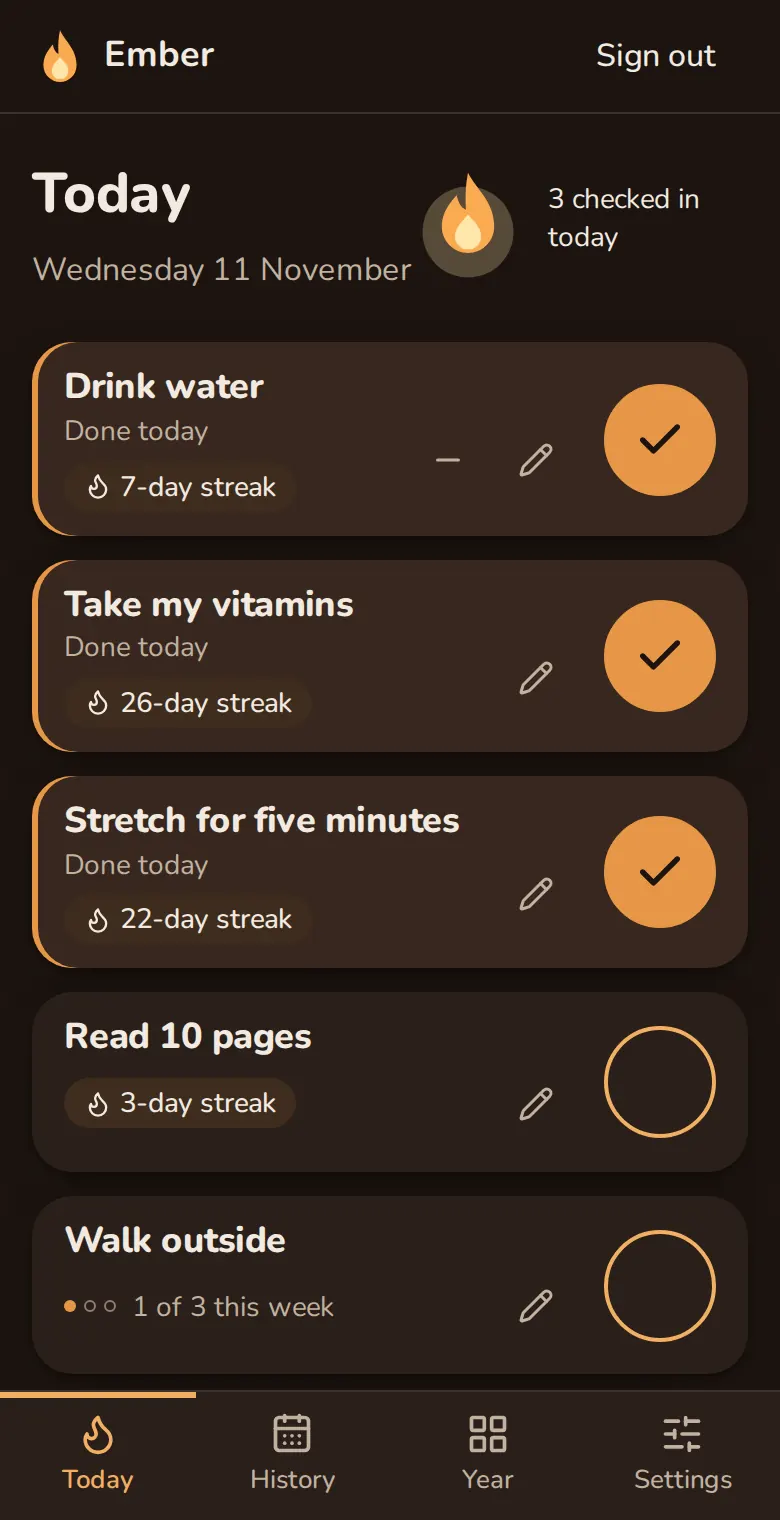
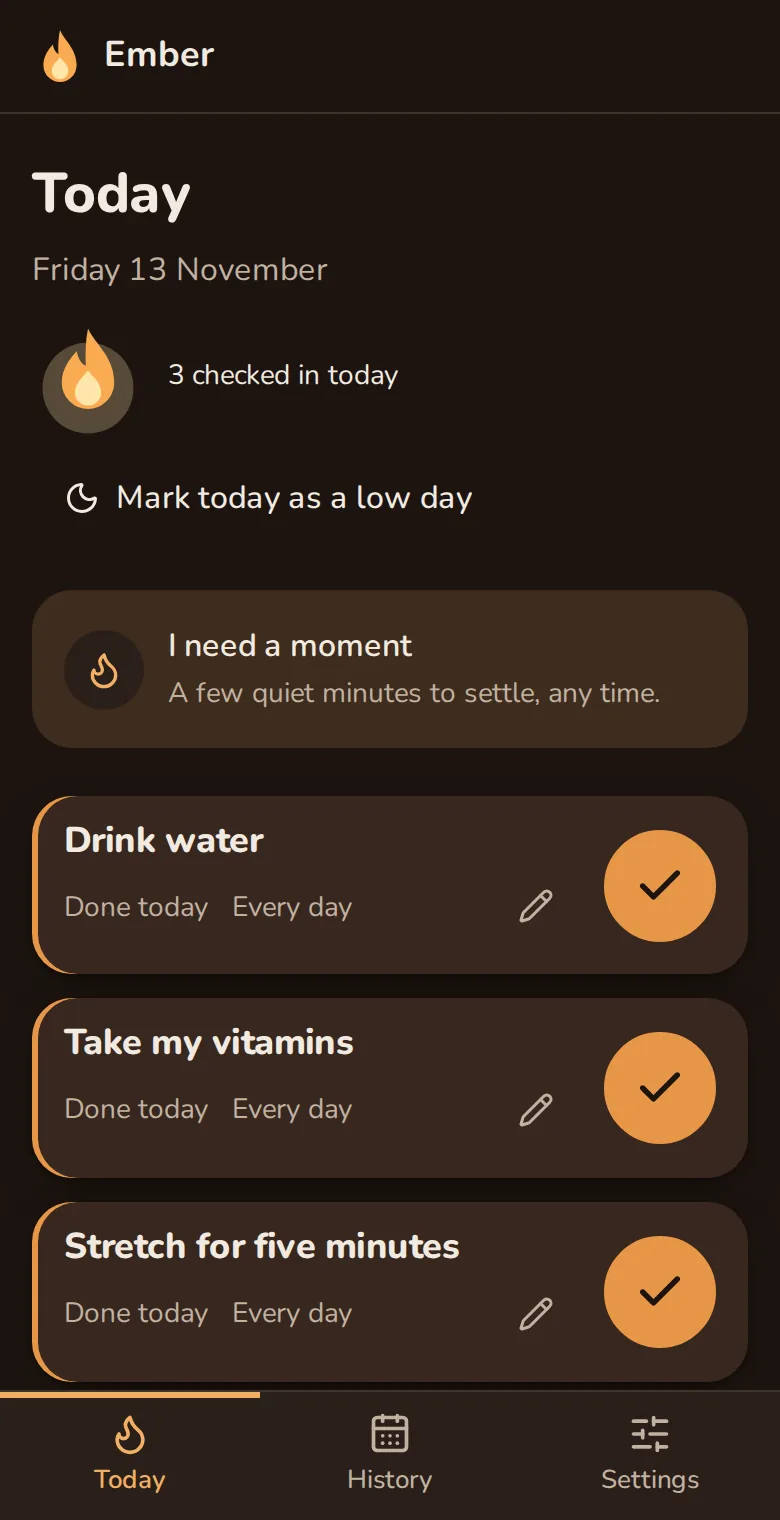
Companion follow-ups: cold-start Reflect, leave-with-draft confirm, storage keys in privacy policy, new pitch images
- Reflect loads the account once on a cold start (session not loaded yet) and restores a remembered journal key before picking the save case
- Leave asks once when Reflect has unsaved text
- Privacy policy 3.8 lists ember.seenReleaseNotes, ember.tzClaimed.<id> and ember.exactAlarmAsked
- OG image with the new pitch; landing screenshots show Today with the moment door and no streak chips

diff --git a/web/src/components/moment/reflect.tsx b/web/src/components/moment/reflect.tsx
@@ -5,6 +5,7 @@ import { FormField } from '@/components/form-field';
 import { LiveRegion } from '@/components/live-region';
 import { useJournal } from '@/components/journal/journal-context';
 import { UnlockForm } from '@/components/settings/journal-forms';
+import { Spinner } from '@/components/spinner';
 import { Button } from '@/components/ui/button';
 import { controlClass } from '@/components/ui/input';
 import { Notice } from '@/components/ui/notice';
@@ -22,7 +23,7 @@ const maxTrigger = 300;
 const nothing = 'nothing';
 const announceFrom = 20;
 
-type SaveCase = 'unlocked' | 'locked' | 'plain' | 'consent' | 'none';
+type SaveCase = 'checking' | 'unlocked' | 'locked' | 'plain' | 'consent' | 'none';
 
 function useSaveCase(): SaveCase {
   const me = useStore(auth.me);
@@ -30,6 +31,26 @@ function useSaveCase(): SaveCase {
   const journal = useJournal();
   const state = useStore(journal.state);
   const turningOff = useStore(journal.turningOff);
+  const [checking, setChecking] = useState(
+    () => !auth.me.get() && localMode.mode.get() === 'account',
+  );
+
+  useEffect(() => {
+    if (!checking) return;
+    let live = true;
+    void auth
+      .loadMe()
+      .catch(() => null)
+      .then((loaded) => (loaded ? journal.restore().catch(() => undefined) : undefined))
+      .finally(() => {
+        if (live) setChecking(false);
+      });
+    return () => {
+      live = false;
+    };
+  }, [checking, journal]);
+
+  if (checking && mode === 'account') return 'checking';
   if (!me || mode !== 'account') return 'none';
   if (!me.consent.given || me.consent.policyVersion !== me.consent.currentPolicyVersion)
     return 'consent';
@@ -45,8 +66,10 @@ function problemText(error: unknown): string {
 }
 
 /**
- * Optional reflection at the end of a moment. Whether it can be saved is decided from memory before any field shows;
- * only an unlocked private journal saves, through `appendPrivate`. The draft survives every error.
+ * Optional reflection at the end of a moment. Whether it can be saved is decided before any field shows: from memory,
+ * or on a cold start with `me` not loaded yet by loading it once (which restores a remembered journal key). Only an
+ * unlocked private journal saves, through `appendPrivate`. The draft survives every error; `onDraft` reports whether
+ * there is unsaved text.
  */
 export function Reflect({
   heading,
@@ -57,6 +80,7 @@ export function Reflect({
   tried,
   used,
   onLeave,
+  onDraft,
 }: {
   heading: string;
   startedAt: Date;
@@ -66,6 +90,7 @@ export function Reflect({
   tried: Practice[];
   used?: Practice;
   onLeave: () => void;
+  onDraft?: (draft: boolean) => void;
 }) {
   const id = useId();
   const saveCase = useSaveCase();
@@ -85,6 +110,11 @@ export function Reflect({
   useEffect(() => {
     if (saved) savedRef.current?.focus();
   }, [saved]);
+
+  const draft = !saved && trigger.trim() !== '';
+  useEffect(() => {
+    onDraft?.(draft);
+  }, [draft, onDraft]);
 
   useEffect(() => {
     if (!unlocked || saveCase !== 'unlocked') return;
@@ -147,6 +177,14 @@ export function Reflect({
             <Check aria-hidden className="mt-[3px] size-[18px] shrink-0" />
             <p>{momentCopy.saved}</p>
           </div>
+          {done}
+        </>
+      ) : saveCase === 'checking' ? (
+        <>
+          <p role="status" className="flex items-center gap-2 text-muted-foreground">
+            <Spinner />
+            {momentCopy.checking}
+          </p>
           {done}
         </>
       ) : (

diff --git a/web/e2e/moment.spec.ts b/web/e2e/moment.spec.ts
@@ -1,9 +1,11 @@
 import { expect, test, type Page } from '@playwright/test';
-import { createWebUser } from './support/accounts';
+import { createWebUser, SECRET } from './support/accounts';
 import {
   createUserWithHabit,
   dayNotes,
   enableJournal,
+  fillNewPassphrase,
+  journalSection,
   newPassphrase,
   openPage,
 } from './support/security';
@@ -231,4 +233,59 @@ test('a no-account profile reaches Reflect with no Save', async ({ page }) => {
   await reachReflect(page);
   await expectNoSave(page);
   await expect(page.getByText('Nothing from this moment was saved.')).toBeVisible();
+});
+
+test('a cold start on /moment loads the account once at Reflect and saves with the remembered key', async ({
+  page,
+}) => {
+  await createWebUser(page);
+  await page.goto('/settings/privacy');
+  const section = journalSection(page);
+  await fillNewPassphrase(section, 'Journal passphrase', newPassphrase());
+  await section.getByLabel('Your login password').fill(SECRET);
+  await section.getByLabel('Remember on this device').check();
+  await section.getByRole('button', { name: 'Turn on the private journal' }).click();
+  await section.getByLabel("I've saved my recovery code").check();
+  await section.getByRole('button', { name: 'Finish' }).click();
+  await expect(
+    section.getByRole('status').filter({ hasText: 'Your private journal is ready.' }),
+  ).toBeVisible();
+
+  await openPage(page, 'Today');
+  await momentDoor(page).click();
+  await expect(page).toHaveURL(/\/moment$/);
+  const meRequests: string[] = [];
+  page.on('request', (request) => {
+    if (new URL(request.url()).pathname === '/api/me') meRequests.push(request.method());
+  });
+  await page.reload();
+  await expect(
+    page.getByRole('heading', { name: "You're here. That's enough for now." }),
+  ).toBeVisible();
+  await page.getByRole('button', { name: "Name what's happening" }).click();
+  await page.getByRole('button', { name: 'Too much / overloaded' }).click();
+  await page.getByRole('radio', { name: 'Strong' }).check();
+  await page.getByRole('button', { name: 'Continue' }).click();
+  await page.getByRole('button', { name: 'Skip to the end' }).click();
+  await page.getByRole('button', { name: 'Skip', exact: true }).click();
+  expect(meRequests).toEqual([]);
+
+  const puts = watchDayNotePuts(page);
+  await page.getByRole('button', { name: 'Reflect on it' }).click();
+  await expect(page.getByText("Saving adds this to today's private note.")).toBeVisible();
+  expect(meRequests).toEqual(['GET']);
+  await page.getByLabel('What set it off').fill('Synthetic trigger: a cold start');
+
+  await page.getByRole('button', { name: 'Leave' }).click();
+  const confirm = page.getByRole('group', { name: 'Leave without saving this note?' });
+  await expect(confirm).toBeFocused();
+  await confirm.getByRole('button', { name: 'Keep writing' }).click();
+  await expect(confirm).toHaveCount(0);
+  await expect(page.getByLabel('What set it off')).toHaveValue('Synthetic trigger: a cold start');
+
+  await page.getByRole('button', { name: 'Save', exact: true }).click();
+  await expect(page.getByText(savedText)).toBeVisible();
+  expect(puts.bodies).toHaveLength(1);
+  expect(Object.keys(puts.bodies[0] as object)).toEqual(['encrypted']);
+  expect(meRequests).toEqual(['GET']);
 });

diff --git a/web/src/components/moment/moment-header.tsx b/web/src/components/moment/moment-header.tsx
@@ -1,24 +1,53 @@
 import { LifeBuoy } from 'lucide-react';
-import { useId } from 'react';
+import { type KeyboardEvent, useId, useRef, useState } from 'react';
+import { flushSync } from 'react-dom';
 import { CrisisLines } from '@/components/moment/crisis-lines';
 import { Button } from '@/components/ui/button';
 import { momentCopy } from '@/lib/moment/copy';
 
-/** The moment flow's persistent header: Leave, and "Urgent help" opening the crisis lines in place. */
+/**
+ * The moment flow's persistent header: Leave, and "Urgent help" opening the crisis lines in place. With an unsaved
+ * `draft`, Leave first asks inline; Escape or "Keep writing" cancels.
+ */
 export function MomentHeader({
   onLeave,
   open,
   onToggle,
+  draft = false,
 }: {
   onLeave: () => void;
   open: boolean;
   onToggle: () => void;
+  draft?: boolean;
 }) {
   const panelId = useId();
+  const confirmId = useId();
+  const leaveRef = useRef<HTMLButtonElement>(null);
+  const confirmRef = useRef<HTMLDivElement>(null);
+  const [confirming, setConfirming] = useState(false);
+
+  function leave(): void {
+    if (!draft) {
+      onLeave();
+      return;
+    }
+    flushSync(() => setConfirming(true));
+    confirmRef.current?.focus();
+  }
+
+  function keepWriting(): void {
+    flushSync(() => setConfirming(false));
+    leaveRef.current?.focus();
+  }
+
+  function onKeyDown(event: KeyboardEvent<HTMLDivElement>): void {
+    if (event.key === 'Escape') keepWriting();
+  }
+
   return (
     <div className="flex flex-col gap-4">
       <div className="flex flex-wrap items-center justify-between gap-2">
-        <Button type="button" variant="ghost" className="-ml-2" onClick={onLeave}>
+        <Button ref={leaveRef} type="button" variant="ghost" className="-ml-2" onClick={leave}>
           {momentCopy.leave}
         </Button>
         <Button
@@ -32,6 +61,26 @@ export function MomentHeader({
           {momentCopy.urgentHelp}
         </Button>
       </div>
+      {confirming && draft && (
+        <div
+          ref={confirmRef}
+          role="group"
+          aria-labelledby={`${confirmId}-question`}
+          tabIndex={-1}
+          onKeyDown={onKeyDown}
+          className="flex flex-col gap-3 rounded-lg border border-border p-4 focus:outline-none"
+        >
+          <p id={`${confirmId}-question`}>{momentCopy.leaveDraft}</p>
+          <div className="flex flex-wrap gap-2">
+            <Button type="button" variant="secondary" onClick={keepWriting}>
+              {momentCopy.keepWriting}
+            </Button>
+            <Button type="button" variant="outline" onClick={onLeave}>
+              {momentCopy.leave}
+            </Button>
+          </div>
+        </div>
+      )}
       <div id={panelId} hidden={!open} className="rounded-lg border border-border p-4">
         {open && <CrisisLines />}
       </div>

diff --git a/web/src/lib/moment/copy.ts b/web/src/lib/moment/copy.ts
@@ -6,6 +6,8 @@ import type { Intensity, MomentState } from './types';
  */
 export const momentCopy = {
   leave: 'Leave',
+  leaveDraft: 'Leave without saving this note?',
+  keepWriting: 'Keep writing',
   urgentHelp: 'Urgent help',
   done: 'Done for now',
   back: 'Back',
@@ -81,6 +83,7 @@ export const momentCopy = {
     'Saving needs your consent to the privacy policy first. Nothing from this moment was saved, and you can still reflect here.',
   openConsent: 'Review consent',
   notSaved: 'Nothing from this moment was saved.',
+  checking: 'Checking whether this can be saved…',
   offline: "You're offline, so nothing was saved. Your words are still here.",
   full: "Today's note is full, so nothing was saved. Shorten what you wrote, or leave it here.",
   saveFailed: "That didn't save. Your words are still here, so you can try again.",

diff --git a/web/src/pages/moment.tsx b/web/src/pages/moment.tsx
@@ -60,6 +60,7 @@ export default function MomentPage() {
   const [practice, setPractice] = useState<Practice>(breathingPractice);
   const [tried, setTried] = useState<Practice[]>([]);
   const [helpOpen, setHelpOpen] = useState(false);
+  const [draft, setDraft] = useState(false);
 
   useFocusHeadingOnChange(
     step.kind === 'practice' ? `practice:${practice.id}:${step.index}` : step.kind,
@@ -286,6 +287,7 @@ export default function MomentPage() {
           tried={tried}
           used={practice}
           onLeave={leave}
+          onDraft={setDraft}
         />
       );
       break;
@@ -297,6 +299,7 @@ export default function MomentPage() {
         onLeave={leave}
         open={helpOpen}
         onToggle={() => setHelpOpen((value) => !value)}
+        draft={step.kind === 'reflect' && draft}
       />
       {body}
     </div>

diff --git a/web/index.html b/web/index.html
@@ -21,7 +21,7 @@
     <meta property="og:image" content="/og/ember.png" />
     <meta property="og:image:width" content="1200" />
     <meta property="og:image:height" content="630" />
-    <meta property="og:image:alt" content="The Ember flame with the words: A calm place for your habits." />
+    <meta property="og:image:alt" content="The Ember flame with the words: A small campfire for big moments. A calm companion for hard moments and gentle days." />
     <meta name="twitter:card" content="summary_large_image" />
     <meta name="twitter:title" content="A small campfire for big moments · Ember" />
     <meta

diff --git a/web/src/pages/landing.tsx b/web/src/pages/landing.tsx
@@ -111,7 +111,7 @@ export default function LandingPage() {
               height={760}
               loading="lazy"
               decoding="async"
-              alt="Ember's Today screen: five habits, three of them checked in today, with their streaks."
+              alt="Ember's Today screen: the “I need a moment” door above the habits, three of them checked in today."
               className="block h-auto max-h-[40rem] w-full rounded-[1.75rem] border-[length:max(1px,var(--border-width))] border-border object-cover object-top shadow-card"
             />
           </picture>

diff --git a/web/public/legal/datenschutzerklaerung.md b/web/public/legal/datenschutzerklaerung.md
@@ -127,6 +127,8 @@ Außerdem speichern die Web-App und die Android-App einige Dinge auf dem Gerät.
 | Browser, Local Storage | `ember.signupEmail` | E-Mail-Adresse aus der Anmeldung, bis die Bestätigung abgeschlossen ist | Nach der Bestätigung, beim Abmelden, spätestens nach einem Tag |
 | Browser, Local Storage | `ember.staySignedIn` | Kennung deines Kontos. Nur, wenn du bei der Anmeldung mit E-Mail und Passwort „Stay signed in“ gewählt hast | Beim Abmelden |
 | Browser, Local Storage | `ember.offlineMe` | Kopie deines Kontostands: E-Mail-Adresse, Zeitzone, Design, Stand der Einwilligung und des Tagebuchs. Nur mit „Stay signed in“ | Beim Abmelden oder wenn die Sitzung abläuft. Die Kopie wird nur am selben Tag genutzt |
+| Browser und Android-App, Local Storage | `ember.seenReleaseNotes` | Die letzte Version, deren Neuigkeiten du auf diesem Gerät gesehen hast, damit der Hinweis zu einer neuen Version auf „Today“ nur einmal erscheint | Wenn du die Website-Daten oder die Daten der App löschst. Beim Abmelden bleibt der Eintrag |
+| Browser und Android-App, Local Storage | `ember.tzClaimed.<Kennung>` | Mit der Kennung deines Kontos im Namen: Merker, dass die Zeitzone dieses Geräts einmal in dein Konto übernommen wurde, weil dort noch keine eingestellt war | Wenn du die Website-Daten oder die Daten der App löschst. Beim Abmelden bleibt der Eintrag |
 | Browser, Session Storage | `ember.preloadReload` | Zeitpunkt des letzten Neuladens nach einem App-Update | Am Ende der Browser-Sitzung |
 | Browser, IndexedDB `ember-device` | Speicher `cache` | Kopie deiner Habit-Liste. Nur mit „Stay signed in“ | Beim Abmelden oder wenn die Sitzung abläuft |
 | Browser, IndexedDB `ember-device` | Speicher `edits` | Änderungen, die du offline gemacht hast und noch nicht gesendet sind | Sobald sie gesendet sind. Beim Abmelden werden die offenen Änderungen verworfen |
@@ -137,6 +139,7 @@ Außerdem speichern die Web-App und die Android-App einige Dinge auf dem Gerät.
 | Android-App, Local Storage | `ember.installId` | Zufällige Kennung dieser Installation, mit der sich das Telefon als Erinnerungsziel anmeldet | Wenn du die App deinstallierst oder ihre Daten löschst |
 | Android-App, Local Storage | `ember.reminderPhone` | Kennung dieses Telefons als Erinnerungsziel und ob es eingeschaltet ist, für Erinnerungen ohne Internet | Beim Abmelden |
 | Android-App, Local Storage | `ember.reminderNames` | Einstellung „Show habit names in reminders“ (aus, wenn nicht gewählt) | Beim Abmelden, dann wieder aus |
+| Android-App, Local Storage | `ember.exactAlarmAsked` | Merker, dass die Beta-App die Einstellung „Alarme und Erinnerungen“ schon einmal geöffnet hat, damit Erinnerungen pünktlich kommen | Wenn du die App deinstallierst oder ihre Daten löschst |
 | Android-App, Widget | Heutige und morgige Habits für das Widget | Im Speicher, den nur die App liest | Beim Abmelden |
 | Android-App, sicherer Speicher (Keystore) | Anmeldetoken und, falls gemerkt, der Tagebuchschlüssel | Anmeldung und Tagebuch | Beim Abmelden |
 
